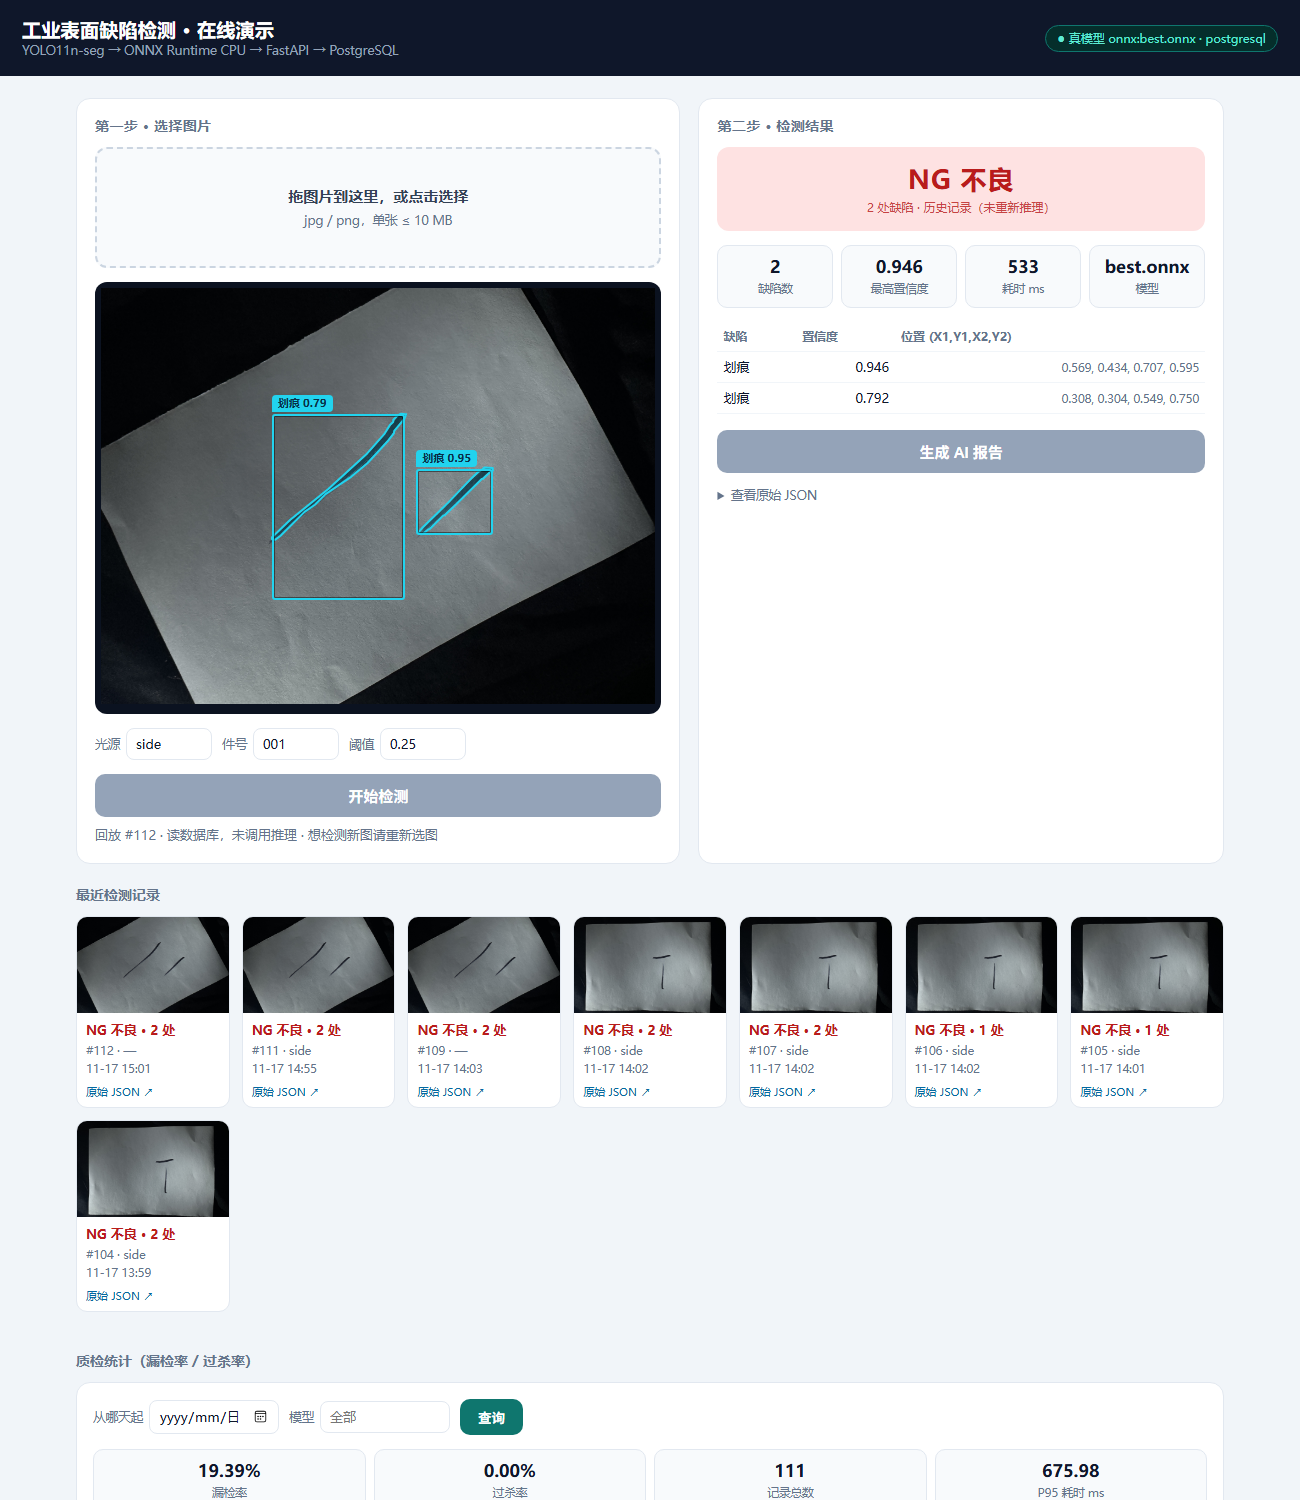
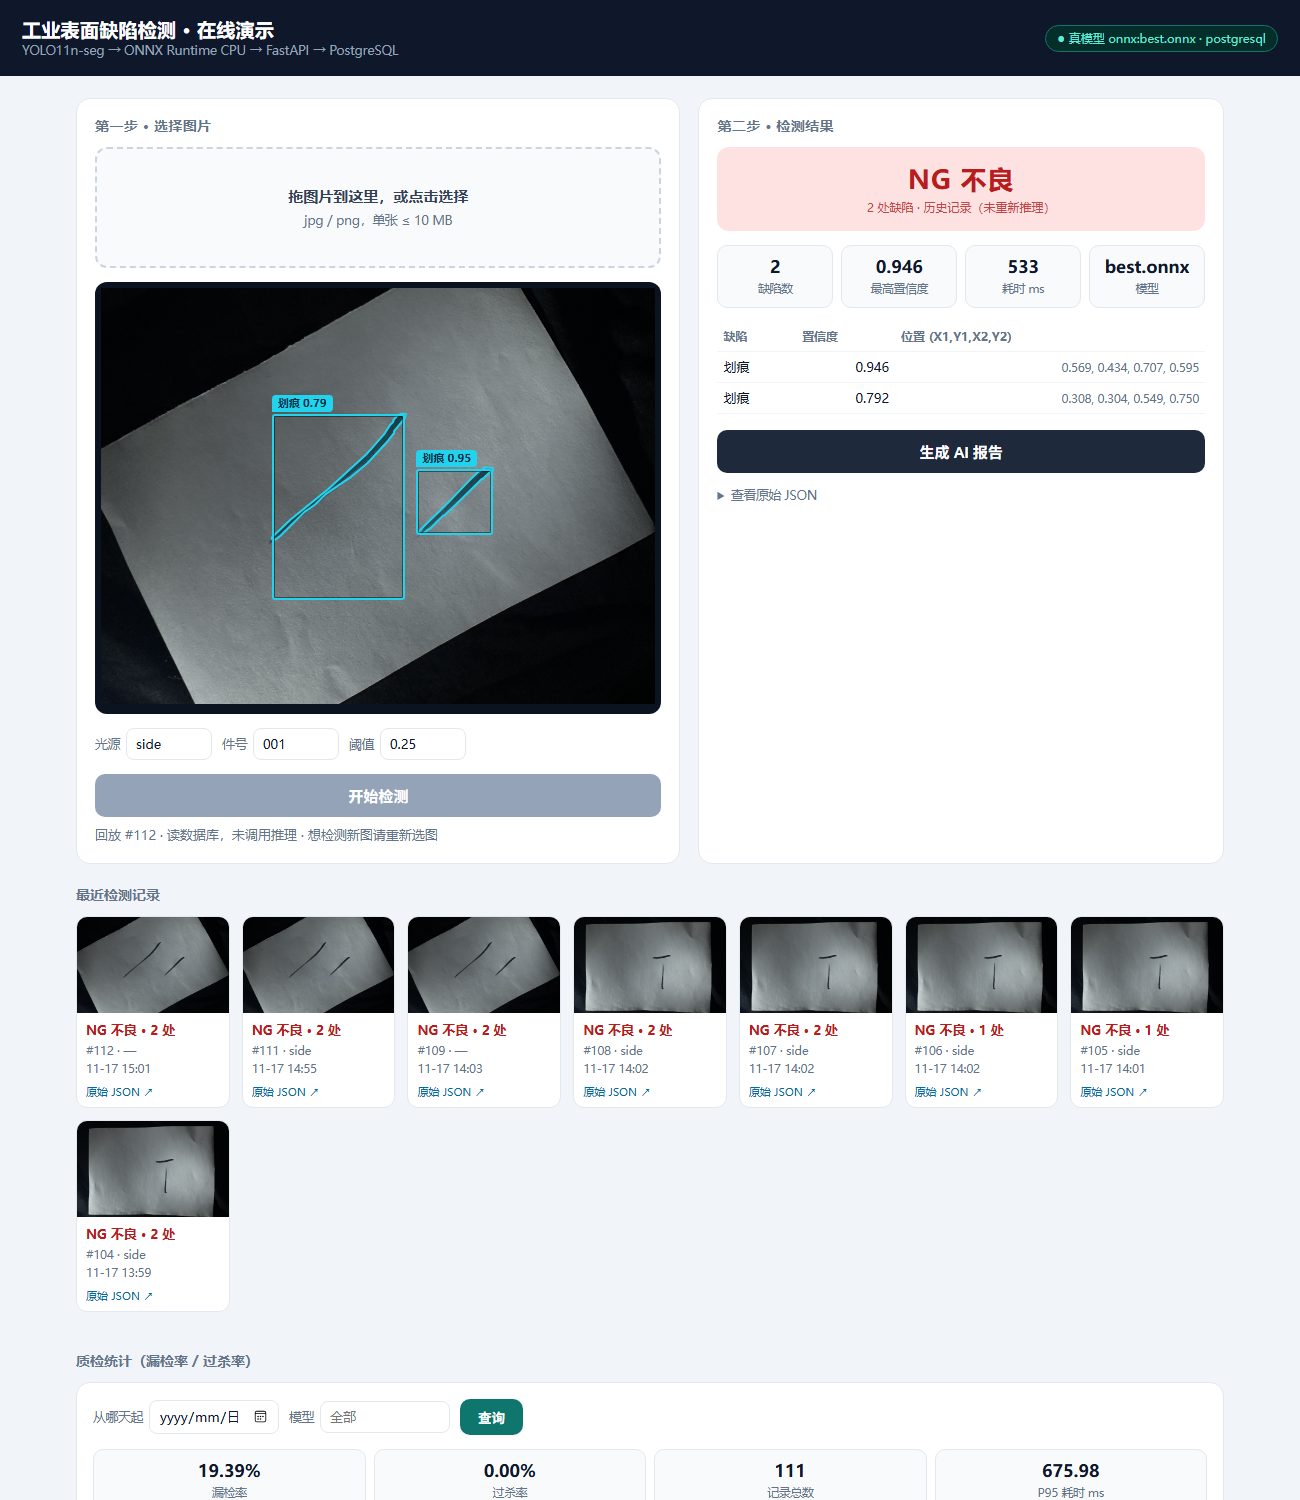
fix(web): AI 报告按钮重新启用后仍是灰色（CSS 优先级）
button:disabled(0,1,1) 压过 .ai-btn(0,1,0)，按钮被禁用过一次后
即使 disabled=false，背景仍按灰色规则走，截图与真机都像没启用。
改用 .ai-btn.is-off(0,2,0) 显式表达关闭态，启用时移除类。

Changed region(s): [[0.5538, 0.276, 0.9231, 0.3373]]

diff --git a/src/service/static/index.html b/src/service/static/index.html
@@ -83,6 +83,11 @@
   }
   button:hover:not(:disabled){background:#115e59}
   button:disabled{background:#94a3b8; cursor:not-allowed}
+  /* 为什么要多这一条：`button:disabled` 的优先级(0,1,1)高于 `.ai-btn`(0,1,0)，
+     所以 AI 报告按钮一旦被禁用过，重新启用后背景仍按灰色规则走，
+     实测截图里一直是灰的，看起来像没启用。用类名明确表达"关闭态"，
+     优先级(0,2,0)压过 `.ai-btn`，启用时把类去掉就一定恢复深色。 */
+  .ai-btn.is-off{background:#94a3b8; cursor:not-allowed}
   .msg{margin-top:10px; font-size:13px; color:var(--muted); min-height:18px}
   .msg.err{color:var(--ng)}
 
@@ -229,7 +234,7 @@
       <div class="empty">检测后这里会列出每个缺陷的位置和置信度</div>
     </div>
 
-    <button id="ai" class="ai-btn" disabled>生成 AI 报告</button>
+    <button id="ai" class="ai-btn is-off" disabled>生成 AI 报告</button>
     <div id="ai-box" class="ai-box" style="display:none"></div>
 
     <details>
@@ -310,6 +315,7 @@ async function generateReport(){
   if(lastId == null) return;
   const btn = $('ai'), box = $('ai-box');
   btn.disabled = true;
+  btn.classList.add('is-off');
   btn.textContent = '生成中…';
   box.style.display = 'block';
   box.innerHTML = '<div class="empty">正在生成报告…</div>';
@@ -328,6 +334,7 @@ async function generateReport(){
     box.innerHTML = '<div class="empty">生成失败：' + esc(e.message) + '</div>';
   }finally{
     btn.disabled = false;
+    btn.classList.remove('is-off');
     btn.textContent = '重新生成报告';
   }
 }
@@ -477,11 +484,7 @@ function render(j, opts){
   lastId = j.inspection_id ?? j.id;
   const btn = $('ai');
   btn.disabled = false;
-  // 显式写一次背景：`button:disabled{background:#94a3b8}` 是全局样式，
-  // 有些浏览器（尤其无 GPU 的 headless 截图）在只改 disabled 属性时不会重绘这一块，
-  // 截图里就还是灰的，看起来像没启用。写内联样式能强制失效缓存。
-  btn.style.background = '#1e293b';
-  btn.style.cursor = 'pointer';
+  btn.classList.remove('is-off');
   btn.textContent = '生成 AI 报告';
   $('ai-box').style.display = 'none';
   $('ai-box').innerHTML = '';
